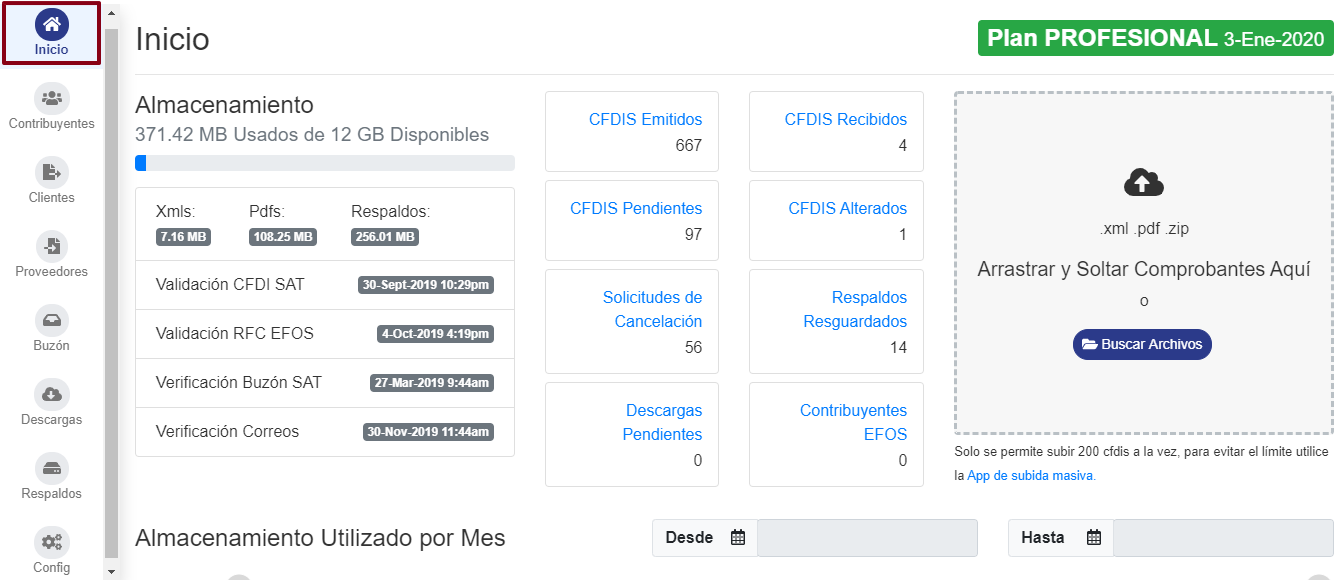
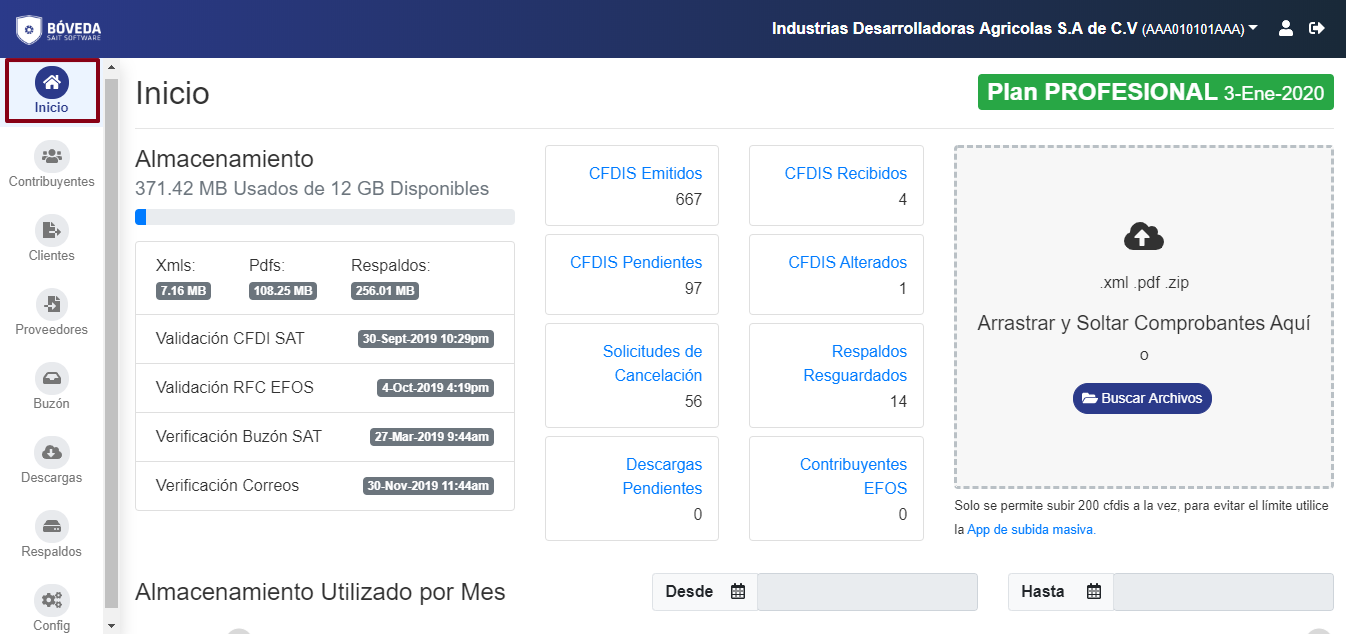
Se realizaron cambios de diseño tanto como de accesos al menu , y al foother de la pagina agregandole los accesos a todos los medios de SAIT bóveda y tambien iniciar la documentación de contribuyente.

diff --git a/themes/docsy/layouts/partials/footer.html b/themes/docsy/layouts/partials/footer.html
@@ -1,27 +1,27 @@
+<head>
+  <link href="https://stackpath.bootstrapcdn.com/font-awesome/4.7.0/css/font-awesome.min.css" rel="stylesheet" integrity="sha384-wvfXpqpZZVQGK6TAh5PVlGOfQNHSoD2xbE+QkPxCAFlNEevoEH3Sl0sibVcOQVnN" crossorigin="anonymous">
+</head>
+
 {{ $links := .Site.Params.links }}
 <footer class="bg-dark py-5 row d-print-none">
   <div class="container-fluid mx-sm-5">
     <div class="row">
       <div class="col-6 col-sm-4 text-xs-center order-sm-2">
-        {{ with $links }}
-        {{ with index . "user"}}
-        {{ template "footer-links-block"  . }}
-        {{ end }}
-        {{ end }}
+
+        <a class="mx-3" target="_blank" data-toggle="tooltip"data-placement="top" title="Accede a la pagina de facebook oficial de SAIT software"  href="https://www.facebook.com/saitsoftware"> <b class="text-white"> <i class="fa fa-facebook fa-2x text-white"> </i> Facebook</b> </a> 
+        <a target="_blank" data-toggle="tooltip"data-placement="top" title="Accede a la pagina oficial de twitter de SAIT software"  href="https://twitter.com/saitsoftware"> <b class="text-white"> <i class="fa fa-twitter fa-2x text-white"> </i> Twitter</b> </a> 
+
       </div>
       <div class="col-6 col-sm-4 text-right text-xs-center order-sm-3">
-        {{ with $links }}
-        {{ with index . "developer"}}
-        {{ template "footer-links-block"  . }}
-        {{ end }}
-        {{ end }}
+          <a class="mx-2" target="_blank" data-toggle="tooltip"data-placement="top" title="Accede al sitio oficial de google plus de SAIT software"  href="https://plus.google.com/+SAITMexico"> <b class="text-white"> <i class="fa fa-google-plus fa-2x text-white"> </i> Google</b> </a> 
+          <a class="mx-2" target="_blank" data-toggle="tooltip"data-placement="top" title="Accede al canal oficial en youtube de SAIT software"  href="https://www.youtube.com/channel/UCZZ2NVWgiB6j5HXP8Dmtuhw"> <b class="text-white"> <i class="fa fa-youtube fa-2x text-white"> </i> Youtube</b> </a> 
+          <a class="mx-2" target="_blank" data-toggle="tooltip"data-placement="top" title="Accede a la cuenta oficial de instagram de SAIT software"  href="https://www.instagram.com/saitmx/"> <b class="text-white"> <i class="fa fa-instagram fa-2x"> </i> Instagram</b> </a> 
+
       </div>
       <div class="col-12 col-sm-4 text-center py-2 order-sm-2">
-        {{ with .Site.Params.copyright }}<small class="text-white">&copy; {{ now.Year}} {{ .}} {{ T "footer_all_rights_reserved" }}</small>{{ end }}
-        {{ with .Site.Params.privacy_policy }}<small class="ml-1"><a href="{{ . }}" target="_blank">{{ T "footer_privacy_policy" }}</a></small>{{ end }}
-	{{ if not .Site.Params.ui.footer_about_disable }}
-		{{ with .Site.GetPage "about" }}<p class="mt-2"><a href="{{ .RelPermalink }}">{{ .Title }}</a></p>{{ end }}
-	{{ end }}
+        <span class="text-light">Copyright © Microsistemas San Luis S.A. de C.V. 2001-2019</span><br>
+        <a target="_blank" href="https://boveda.sait.mx/docs/AvisoPrivacidad.pdf">Aviso de Privacidad</a>
+        <a target="_blank" href="https://boveda.sait.mx/docs/TerminosCondiciones.pdf">Términos y Condiciones</a>
       </div>
     </div>
   </div>

diff --git a/themes/docsy/layouts/partials/navbar.html b/themes/docsy/layouts/partials/navbar.html
@@ -1,7 +1,7 @@
 {{ $cover := .HasShortcode "blocks/cover" }}
 <nav class="js-navbar-scroll navbar navbar-expand navbar-dark {{ if $cover}} td-navbar-cover {{ end }}flex-column flex-md-row td-navbar">
         <a class="navbar-brand" href="{{ .Site.Home.RelPermalink }}">
-		<span class="navbar-logo">{{ if .Site.Params.ui.navbar_logo }}{{ with resources.Get "icons/logo.svg" }}{{ ( . | minify).Content | safeHTML }}{{ end }}{{ end }}</span><span class="text-uppercase font-weight-bold">{{ .Site.Title }}</span>
+		<span class="navbar-logo"></span><img class="w-25" src="https://boveda.sait.mx/img/boveda_blanco.png" alt=""><span class="text-uppercase font-weight-bold"></span>
 	</a>
 	<div class="td-navbar-nav-scroll ml-md-auto" id="main_navbar">
 		<ul class="navbar-nav mt-2 mt-lg-0">
@@ -23,9 +23,7 @@
 			</li>
 			{{ end }}
 			{{ if  (gt (len .Site.Home.Translations) 0) }}
-			<li class="nav-item dropdown d-none d-lg-block">
-				{{ partial "navbar-lang-selector.html" . }}
-			</li>
+			
 			{{ end }}
 		</ul>
 	</div>

diff --git a/themes/docsy/layouts/partials/search-input.html b/themes/docsy/layouts/partials/search-input.html
@@ -1,5 +1,5 @@
 {{ if or .Site.Params.gcs_engine_id .Site.Params.algolia_docsearch }}
-<input type="search" class="form-control td-search-input" placeholder="&#xf002 {{ T "ui_search" }}" aria-label="{{ T "ui_search" }}" autocomplete="off">
+<input type="search" class="form-control td-search-input" placeholder="Buscar en este sitio...">
 {{ else if .Site.Params.offlineSearch }}
 <div id="search-nav-container">
 <input type="search" id="search-input" autocomplete="off" class="form-control td-search-input" placeholder="&#xf002 {{ T "ui_search" }}" autocomplete="on">

diff --git a/themes/docsy/layouts/partials/page-meta-links.html b/themes/docsy/layouts/partials/page-meta-links.html
@@ -18,7 +18,7 @@
 {{ $issuesURL := printf "%s/issues/new?title=%s" $gh_repo (htmlEscape $.Title )}}
 {{ if $gh_project_repo }}
 {{ $project_issueURL := printf "%s/issues/new" $gh_project_repo }}
-<h5 style="text-align: center;"><i class="fa fa-sign-out"></i>En esta página</h5><hr>
+<h5 style="text-align: center;">En esta página</h5><hr>
 {{ end }}
 </div>
 {{ end }}

diff --git a/themes/docsy/layouts/docs/list.html b/themes/docsy/layouts/docs/list.html
@@ -12,6 +12,6 @@
 		<br />
 		{{ partial "disqus-comment.html" . }}
 	{{ end }}
-	<div class="text-muted mt-5 pt-3 border-top">{{ partial "page-meta-lastmod.html" . }}</div>
+	
 </div>
 {{ end }}

diff --git a/content/en/docs/Inicio/_index.md b/content/en/docs/Inicio/_index.md
@@ -1,11 +1,11 @@
 ---
 title: "Inicio"
 linkTitle: "Inicio"
-weight: 2
+weight: 4
 ---
 ### ° Almacenamiento
 
-Para acceder al inicio de **SAIT bóveda** dar clic en el ícono de **Inicio**.
+Para acceder a la sección **inicio** de **SAIT bóveda** dar clic en el ícono de **Inicio**.
 
 ![IMG](inicio.png)
 

diff --git a/content/en/docs/Contribuyente/_index.md b/content/en/docs/Contribuyente/_index.md
@@ -1,0 +1,9 @@
+---
+title: "Contribuyente"
+linkTitle: "Contribuyente"
+weight: 5
+---
+
+Para acceder a la sección **Contribuyente** de **SAIT bóveda** dar clic en el ícono de **Contribuyente**.
+
+![IMG](inicio.png)

diff --git a/content/en/docs/Crear cuenta/_index.md b/content/en/docs/Crear cuenta/_index.md
@@ -1,6 +1,6 @@
 ---
 title : "Crear Cuenta"
-linkTitle: "Configurar"
+linkTitle: "Crear Cuenta"
 weight : 1
 ---
 
